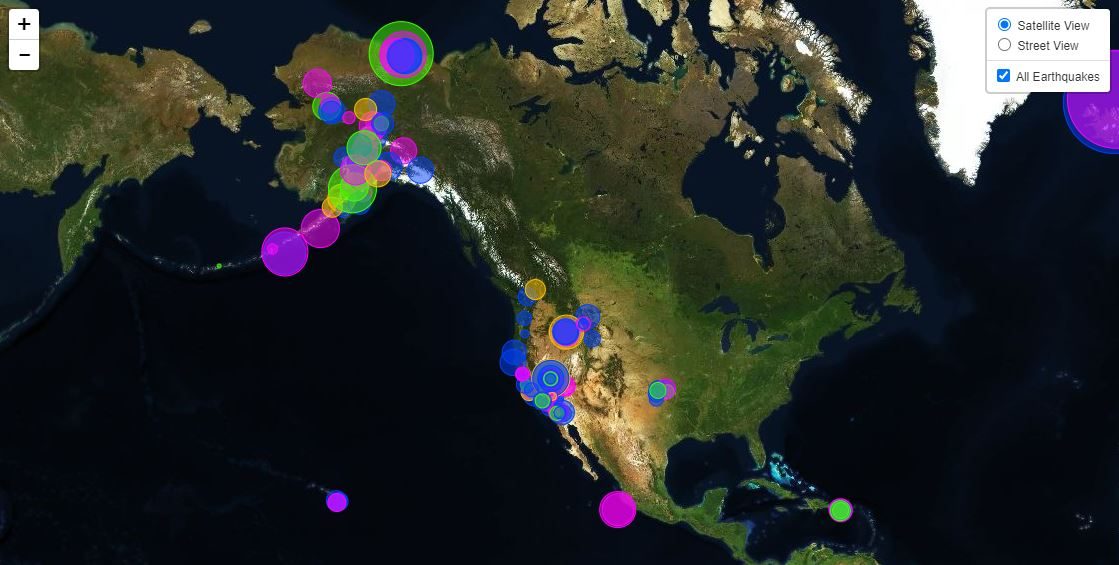
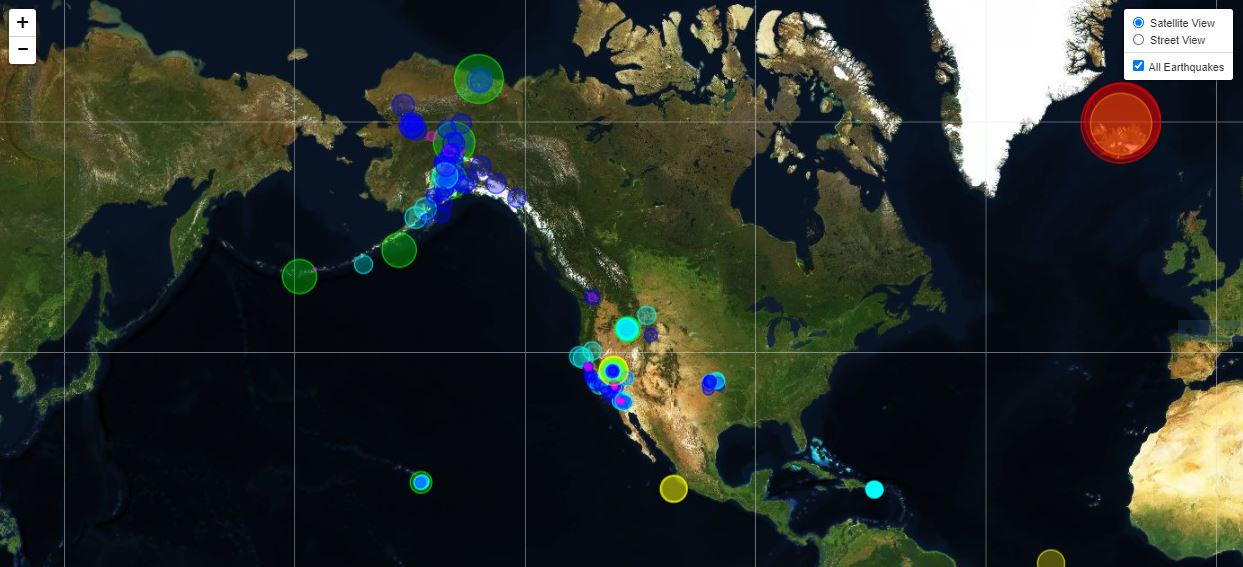
Adding different version of Final Map screenshot

diff --git a/Leaflet-Step-1/static/js/logic.js b/Leaflet-Step-1/static/js/logic.js
@@ -73,35 +73,38 @@ function createMarkers(response) {
   for (var index = 0; index < earthquakes.length; index++) {
     var earthquake = earthquakes[index];
 
-    // For each earthquake, create a marker and bind a popup with the earthquake's name
-    var earthquakeMarker = L.circle([earthquake.geometry.coordinates[1], earthquake.geometry.coordinates[0]], {
-      fillOpacity: .5,
-      color: color,
-      weight: 1,
-      fillColor: color,
-      radius: earthquake.properties.mag * 70000
-    }).bindPopup("<h3> Where: " + earthquake.properties.place + "</h3><hr><p>" + new Date(earthquake.properties.time) + "<br><h3>Magnitude: " + earthquake.properties.mag + "</h3>");
     
     // Designating colors for earthquake magnitudes 
     var color = "";
-    if (earthquake.properties.mag > 5) {
-      color = "#ff0000";
-    }
-    else if (earthquake.properties.mag > 4) {
-      color = "#ffbf00";
-    }
-    else if (earthquake.properties.mag > 3) {
-      color = "#ffbf00";
-    }
-    else if (earthquake.properties.mag > 2) {
-      color = "#40ff00";
-    }
-    else if (earthquake.properties.mag > 1) {
-      color = "#0040ff";
-    }
-    else {
+    if (earthquake.properties.mag < 1) {
       color = "#ff00ff";
     }
+    else if (earthquake.properties.mag >=1 && earthquake.properties.mag < 2) {
+      color = "#0000ff";
+    }
+    else if (earthquake.properties.mag >= 2 && earthquake.properties.mag < 3) {
+      color = "#00ffff";
+    }
+    else if (earthquake.properties.mag >= 3 && earthquake.properties.mag < 4) {
+      color = "#00ff00";
+    }
+    else if (earthquake.properties.mag >= 4 && earthquake.properties.mag < 5) {
+      color = "#ffff00";
+    }
+    else {
+      color = "#ff0000";
+    }
+
+    // For each earthquake, create a marker and bind a popup with the earthquake's name
+    var earthquakeMarker = L.circle([earthquake.geometry.coordinates[1], earthquake.geometry.coordinates[0]], {
+      fillOpacity: .3,
+      color: color,
+      weight: 1,
+      fillColor: color,
+      radius: earthquake.properties.mag * 60000
+    }).bindPopup("<h3> Where: " + earthquake.properties.place + "</h3><hr><p>" + new Date(earthquake.properties.time) + "<br><h3>Magnitude: " + earthquake.properties.mag + "</h3>");
+
+    
 
     // Add the marker to the earthquakeMarkers array
     earthquakeMarkers.push(earthquakeMarker);
